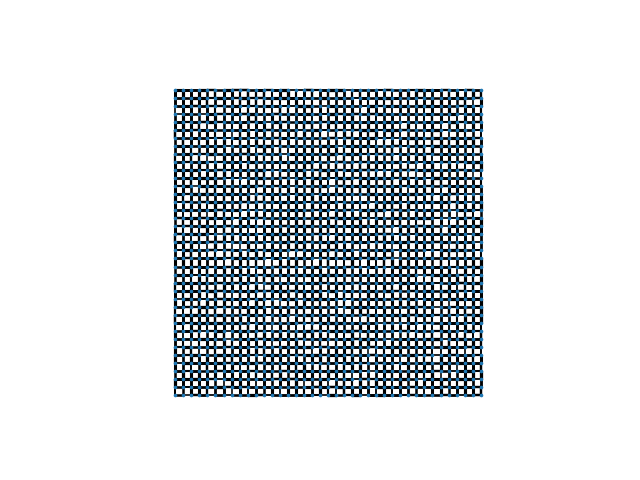
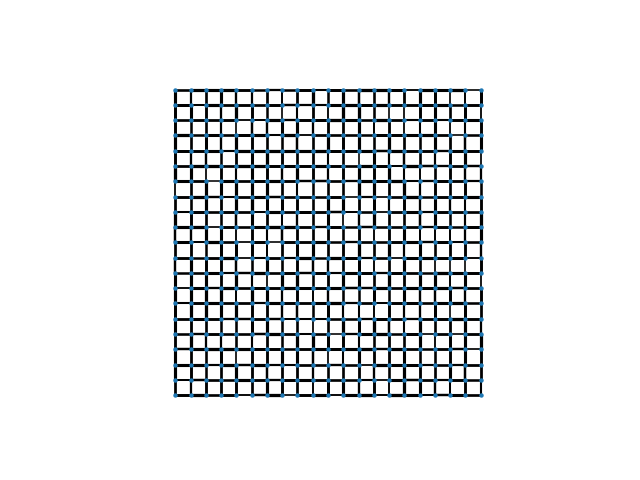
veins model 21x21, 'dt': 0.01, 'N': 4000 'a': 2.9, 'b': 1.3, 'gamma': 2/3, 'delta': 1.7, 'nu': 1.1, 'flow_hat': 1.1, 'c': 0.001, 'r': 1.7

Changed region(s): [[0.25, 0.1562, 0.7812, 0.8438]]

diff --git a/Angiogenesis.py b/Angiogenesis.py
@@ -71,7 +71,7 @@ def generate_grid_graph(dim_A, dim_B, periodic=False, hexagonal=False, triangula
 
 
 def generate_physical_values(graph, source_value, incidence_matrix, corridor_model=False, two_capacitor_plates_model=False,
-                             one_capacitor_plates_model=False, three_sides_model=False, quater_model=False, square_concentric_model=False, triangular=False):
+                             one_capacitor_plates_model=False, three_sides_model=False, quater_model=False, square_concentric_model=False, veins_square_concentric_model=False , triangular=False):
     dimension = np.shape(incidence_matrix)[0]
     edges_dim = np.shape(incidence_matrix)[1]
 
@@ -139,10 +139,18 @@ def generate_physical_values(graph, source_value, incidence_matrix, corridor_mod
                 source_list[iterator] = -source_value/number_of_boundary_nodes
                 #print(node)
             iterator += 1
-        print(number_of_boundary_nodes)
-        print(-source_value / (4*np.sqrt(dimension)-4) * iterator)
-        print(source_value)
 
+    if veins_square_concentric_model:
+        source_list = np.zeros(dimension)                            # vector from nodes space
+        source_list[int((dimension-1)/2)] = -source_value             # source in the center
+        number_of_boundary_nodes = 4*np.sqrt(dimension)-4
+        last_index = int(np.sqrt(dimension)-1)
+        iterator = 0
+        for node in graph.nodes:        # accessing nodes on the boundaries of the network
+            if node[0] == 0 or node[0] == last_index or node[1] == 0 or node[1] == last_index:
+                source_list[iterator] = source_value/number_of_boundary_nodes
+                #print(node)
+            iterator += 1
 
     if triangular:
         source_list = np.zeros(dimension)
@@ -155,24 +163,6 @@ def generate_physical_values(graph, source_value, incidence_matrix, corridor_mod
                 source_list[iterator] = source_value / number_of_bordering_nodes  # number of nodes on the border
                 print(node)
             iterator += 1
-
-    """
-    if side_to_side:
-        source_list = np.zeros(dimension)
-        last_index = int(np.sqrt(dimension)-1)
-        nodes_on_one_side = int(np.sqrt(dimension))
-        iterator = 0
-        for node in graph.nodes:
-            if node[0] == 0:    # in-flow side
-                source_list[iterator] = source_value / (2*nodes_on_one_side)
-                print("source", node)
-            elif node[0] == last_index:   # out-flow side
-                source_list[iterator] = -source_value / (2*nodes_on_one_side)
-                print("sink", node)
-
-            iterator += 1
-    """
-
 
     # q = (delta^T)^-1 * S
     #print(incidence_T_inv)

diff --git a/Simulation.py b/Simulation.py
@@ -7,7 +7,7 @@ start_time = time.time()
 
 hexagonal = 0
 triangular = 0
-m = 39
+m = 21
 number_of_nodes = m*m
 #adjacency_matrix = an.generate_random_adjacent_matrix(number_of_nodes)
 # random graph
@@ -19,7 +19,7 @@ incidence_matrix, graph, nodes_data, edges_data = an.generate_grid_graph(m, m, h
 
 source_value = 10
 incidence_T_inv, x, x_dagger, incidence_inv, incidence_T, source_list, pressure_list, length_list, conductivity_list, flow_list, pressure_diff_list = \
-    an.generate_physical_values(graph, source_value, incidence_matrix, corridor_model=0, two_capacitor_plates_model=0, square_concentric_model=1, triangular=0)
+    an.generate_physical_values(graph, source_value, incidence_matrix, corridor_model=0, two_capacitor_plates_model=0, square_concentric_model=0, veins_square_concentric_model=1, triangular=0)
 
 arguments = {'pressure_list': pressure_list, 'length_list': length_list, 'conductivity_list': conductivity_list,
              'flow_list': flow_list, 'pressure_diff_list': pressure_diff_list, 'incidence_matrix': incidence_matrix,
@@ -44,7 +44,7 @@ print(edges_data)
 print(nodes_data)
 
 # dK/dt = a*(q / q_hat)^(2*gamma) - b * K + c
-parameters_set = {'a': 2.9, 'b': 1.3, 'gamma': 2/3, 'delta': 1.7, 'nu': 1.1, 'flow_hat': 1.1, 'c': 0.001, 'r': 1.7, 'dt': 0.001, 'N': 8000}
+parameters_set = {'a': 2.9, 'b': 1.3, 'gamma': 2/3, 'delta': 1.7, 'nu': 1.1, 'flow_hat': 1.1, 'c': 0.001, 'r': 1.7, 'dt': 0.001, 'N': 4000}
 
 graph, conductivity_list = an.run_simulation(source_value, m, pos, nodes_data, edges_data, **arguments, **parameters_set, is_scaled=True, with_pruning=False)
 print(edges_data)
